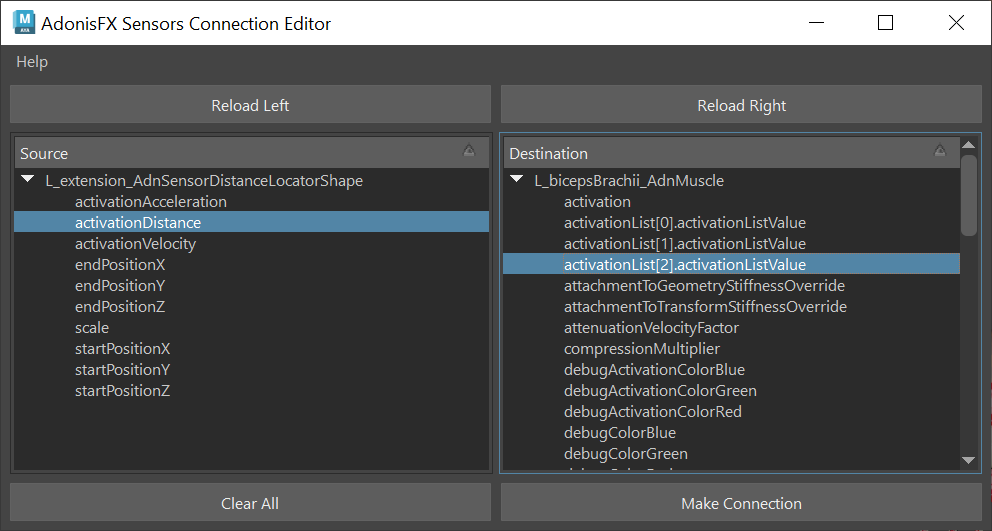
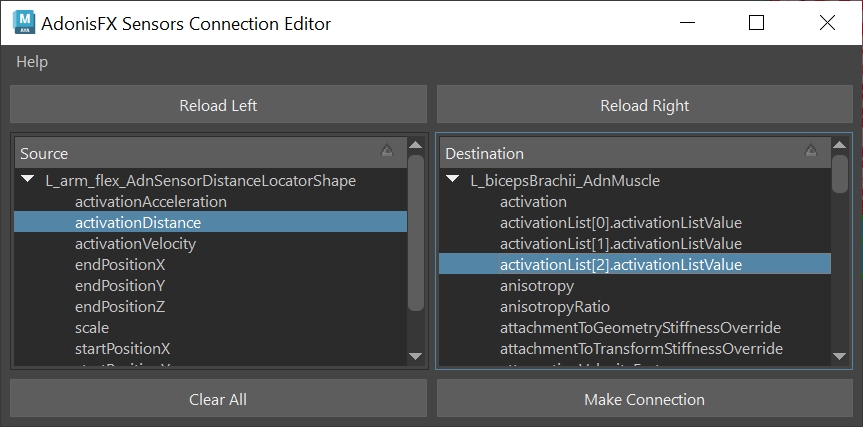
Updated content of tools in maya: sensors connection editor and paint tool Updated screenshots of sensors connection editor tool for maya

diff --git a/docs/maya/tools/sensors_connection_editor.md b/docs/maya/tools/sensors_connection_editor.md
@@ -1,6 +1,6 @@
 # Sensors Connection Editor
 
-To ease with the connection of sensors to deformers AdonisFX provides the **Sensors Connection Editor** in charge of facilitating the connection of sensors to the active deformers in the scene.
+To ease with the connection of sensors to the muscle activations AdonisFX provides the **Sensors Connection Editor** tool. Instead of connecting the sensors directly to the muscle deformers, this tool is designed to make the connection through the locators in order to keep the node graph aligned with the standard structure of Sensor -> Locator -> Muscle.
 
 To use this tool go to the AdonisFX Menu > Sensors (under the Edit section) > *Connection Editor*.
 
@@ -9,20 +9,17 @@ To use this tool go to the AdonisFX Menu > Sensors (under the Edit section) > *C
   <figcaption><b>Figure 1</b>: Sensor connection editor after opening it for the first time. </figcaption>
 </figure>
 
-Two main sections can be distinguished in this tool, labeled *source* and *destination*. The source section is intended to display the signal attributes of sensors and locators, but it can also display the float attributes of any node. Meanwhile, the destination section will display the deformers along with their possible input attributes.
+Two main sections can be distinguished in this tool, labeled *source* and *destination*. The source section is intended to display the signal attributes of locators, but it also displays any other float attributes. Meanwhile, the destination section will display the muscle deformers along with their possible input attributes.
 
 To retrieve these objects and display them in the tool, select the desired element from the scene (an AdonisFX locator containing a sensor or a deformer) and press their respective *Reload Left* or *Reload Right* button.
 
-For Source elements (sensors) press the *Reload Left* button and for Destination elements (deformers) press the *Reload Right* button.
+For Source elements (locators) press the *Reload Left* button and for Destination elements (muscle deformers) press the *Reload Right* button.
 
 <figure markdown> 
   ![Connection Editor Setup](../images/tools_sensors_connection_editor.png) 
-  <figcaption><b>Figure 2</b>: Sensor connection editor after adding sensors and deformers from the selection. </figcaption>
+  <figcaption><b>Figure 2</b>: Sensor connection editor after adding a distance locator and a muscle from the selection. </figcaption>
 </figure>
 
 To make the connections select the two specific attributes to connect (one from *source* and one from *destination*) and press the *Make Connection* button. A message will then get displayed informing that the connection has been properly made.
 
 To clear the selection and reset the tool to its initial state, press the *Clear All* button.
-
-> [!NOTE]
-> - If an AdonisFX locator (i.e. typically the shape node) is connected to a muscle deformer and the history of the muscle geometry is deleted, Maya will also delete the shape node of that AdonisFX locator. To avoid this, it is recommended to connect either the AdonisFX sensor or the intermediate [AdnRemap](../nodes/remap) node instead.

diff --git a/docs/maya/tools/paint_tool.md b/docs/maya/tools/paint_tool.md
@@ -125,6 +125,21 @@ In the specific case of an AdnSkin deformer, the tool will display the following
     - This value is normalized alongside Soft Constraints and Slide Constraints.
   - **Masses**
     - Masses are set to 1.0 by default. This will mean that by default the solver will consider that the skin has a uniform mass.
+  - **Self Collisions Radius Multiplier**
+    - By default, this map is set to 1.0.
+    - This value is scaled for each point by the *Point Radius Scale* attribute when the Self-Collisions are in *Point to Point* mode.
+    - The greater this value is for a given point, the larger the radius of the spherical volume used for collision detection is.
+    - Paint with a value of 0.0 the areas that should not compute self collisions to reduce the computational impact.
+  - **Self Collisions Thickness Multiplier**
+    - By default, this map is set to 1.0.
+    - This value is scaled for each point by the *Thickness* attribute in both *Point to Point* and *Triangle to Triangle* modes.
+    - In *Point to Point* mode, this value modulates the size of the spherical volume used for collision detection in the direction of the normal.
+    - In *Triangle to Triangle* mode, this value modulates the push-out applied to the surface used for collision detection in the direction of the normal.
+    - Paint with a value of 0.0 the areas to ignore the thickness; and with a value greater than 0.0 the areas to push along the direction of the normals.
+  - **Self Collisions Weights**
+    - By default, this map is set to 1.0.
+    - Paint with a value of 0.0 the areas that should not compute self collisions to reduce the computational impact.
+    - Paint with higher value the areas that should receive more correction due to self-intersections, and with lower value the areas that should receive less correction.
   - **Shape Preservation**
     - Shape preservation weights are set to 0.0 by default in AdnSkin. Modify this value to allow the solver to apply corrections to the current vertex to maintain the initial state of the shape formed with the surrounding vertices.
   - **Slide Constraints**
